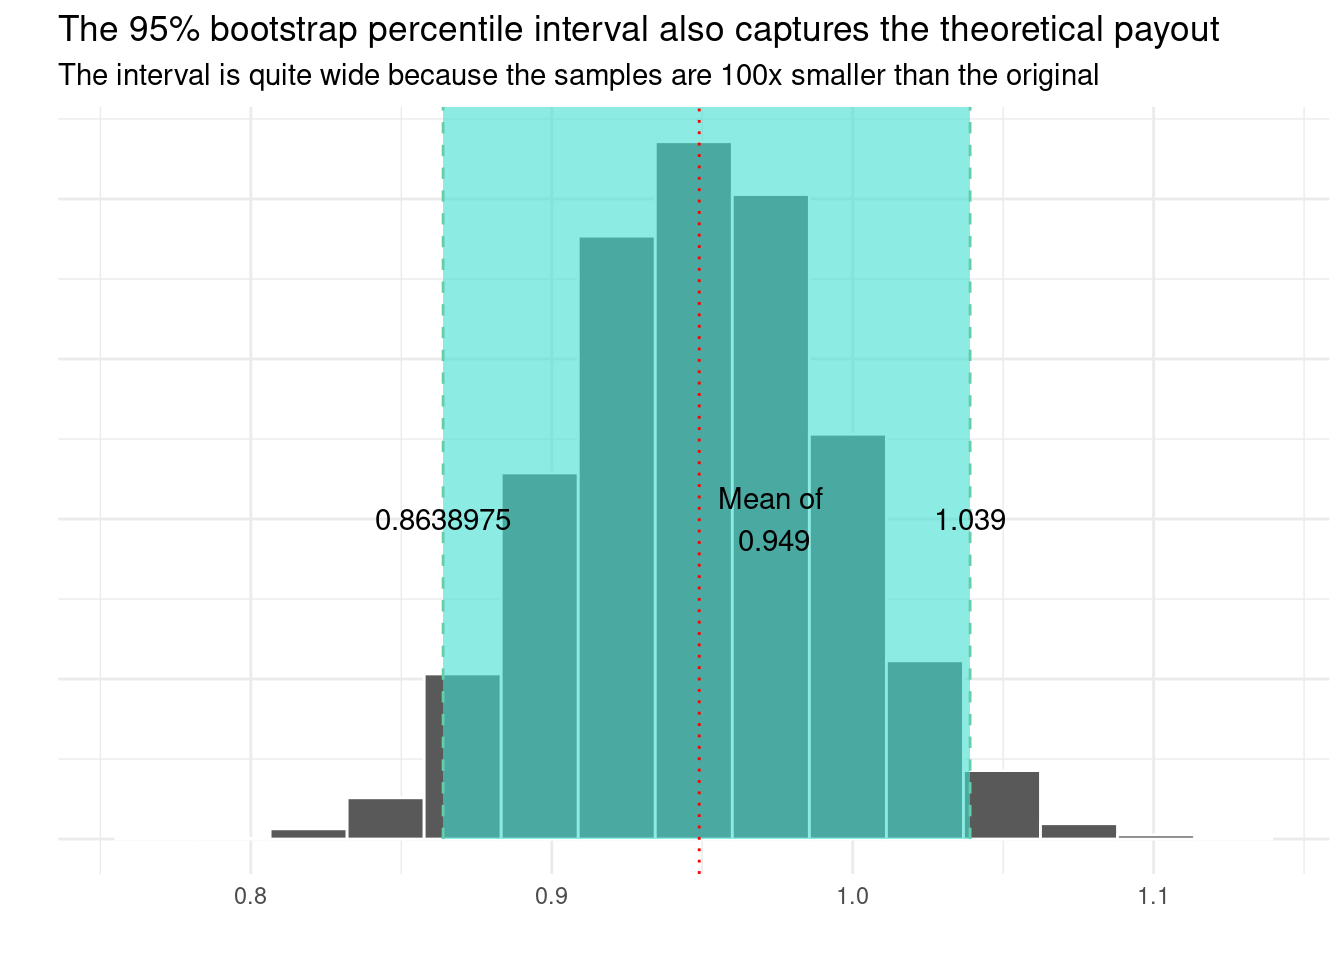
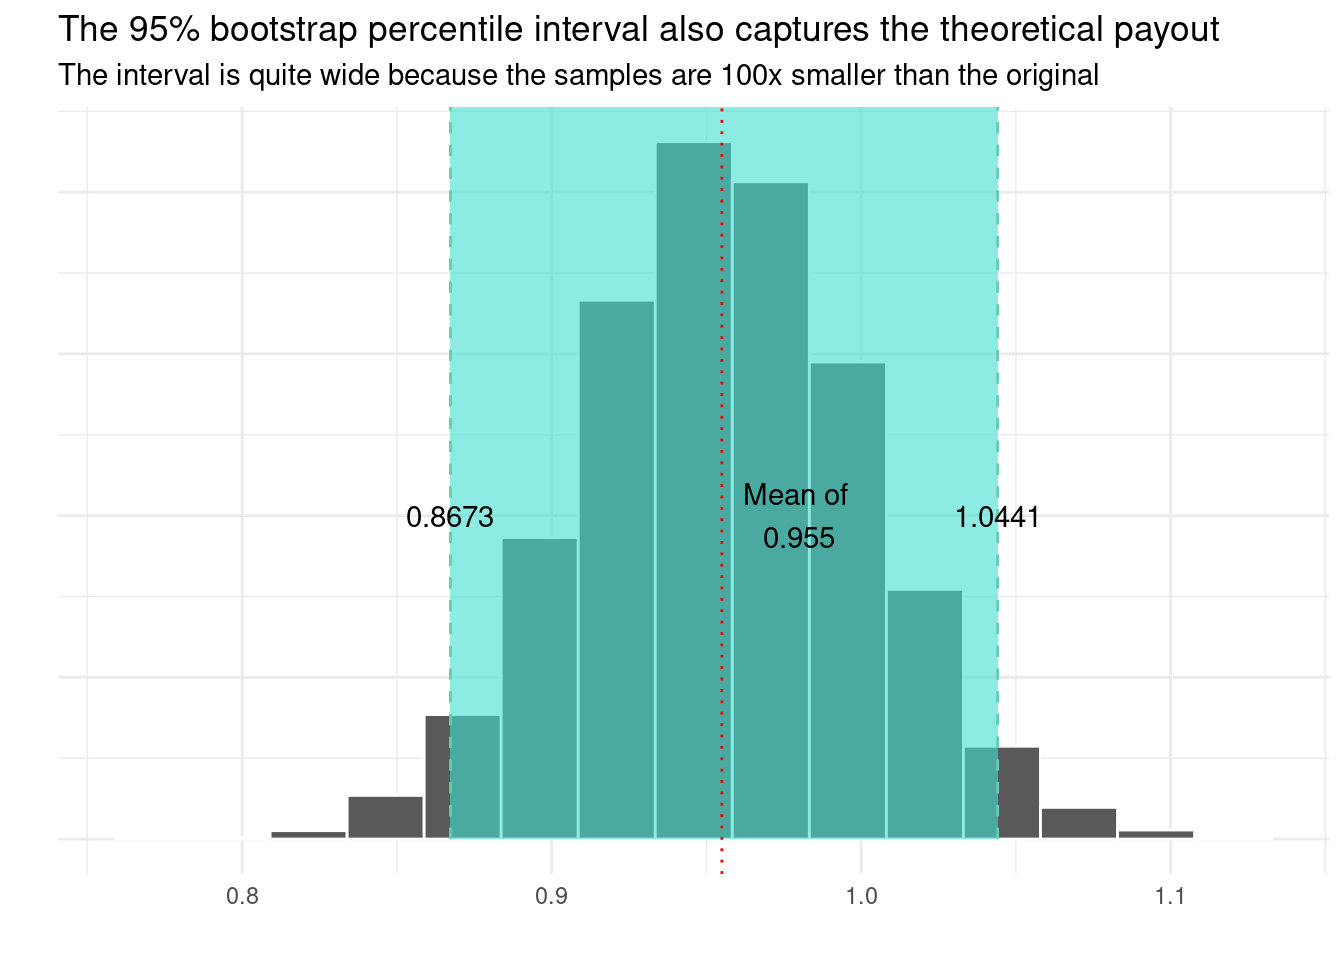
Change math symbol for clarity

diff --git a/simulation.html b/simulation.html
@@ -232,7 +232,7 @@ f(w) =
   1, &amp; \text{if } w = (2,2,x_3 \neq 2) \\
 1, &amp; \text{if } w = (1,1,x_3 \neq 1) \\
 3, &amp; \text{if } w\text{'s coordinates are all equal}  \\
-r \in q(X), &amp; \text{if } w = (x_1, 11, x_3)\text{ and }x_1 \equiv 1\text{ (mod 2)}
+\gamma \in q(X), &amp; \text{if } w = (x_1, 11, x_3)\text{ and }x_1 \equiv 1\text{ (mod 2)}
 \end{cases}
 \]</span></p>
 <div class="cell">
@@ -440,7 +440,7 @@ r \in q(X), &amp; \text{if } w = (x_1, 11, x_3)\text{ and }x_1 \equiv 1\text{ (m
 <pre><code># A tibble: 1 × 7
   statistic   t_df p_value alternative estimate lower_ci upper_ci
       &lt;dbl&gt;  &lt;dbl&gt;   &lt;dbl&gt; &lt;chr&gt;          &lt;dbl&gt;    &lt;dbl&gt;    &lt;dbl&gt;
-1      216. 999999       0 two.sided      0.956    0.947    0.964</code></pre>
+1      216. 999999       0 two.sided      0.953    0.944    0.962</code></pre>
 </div>
 </div>
 <div class="cell">
